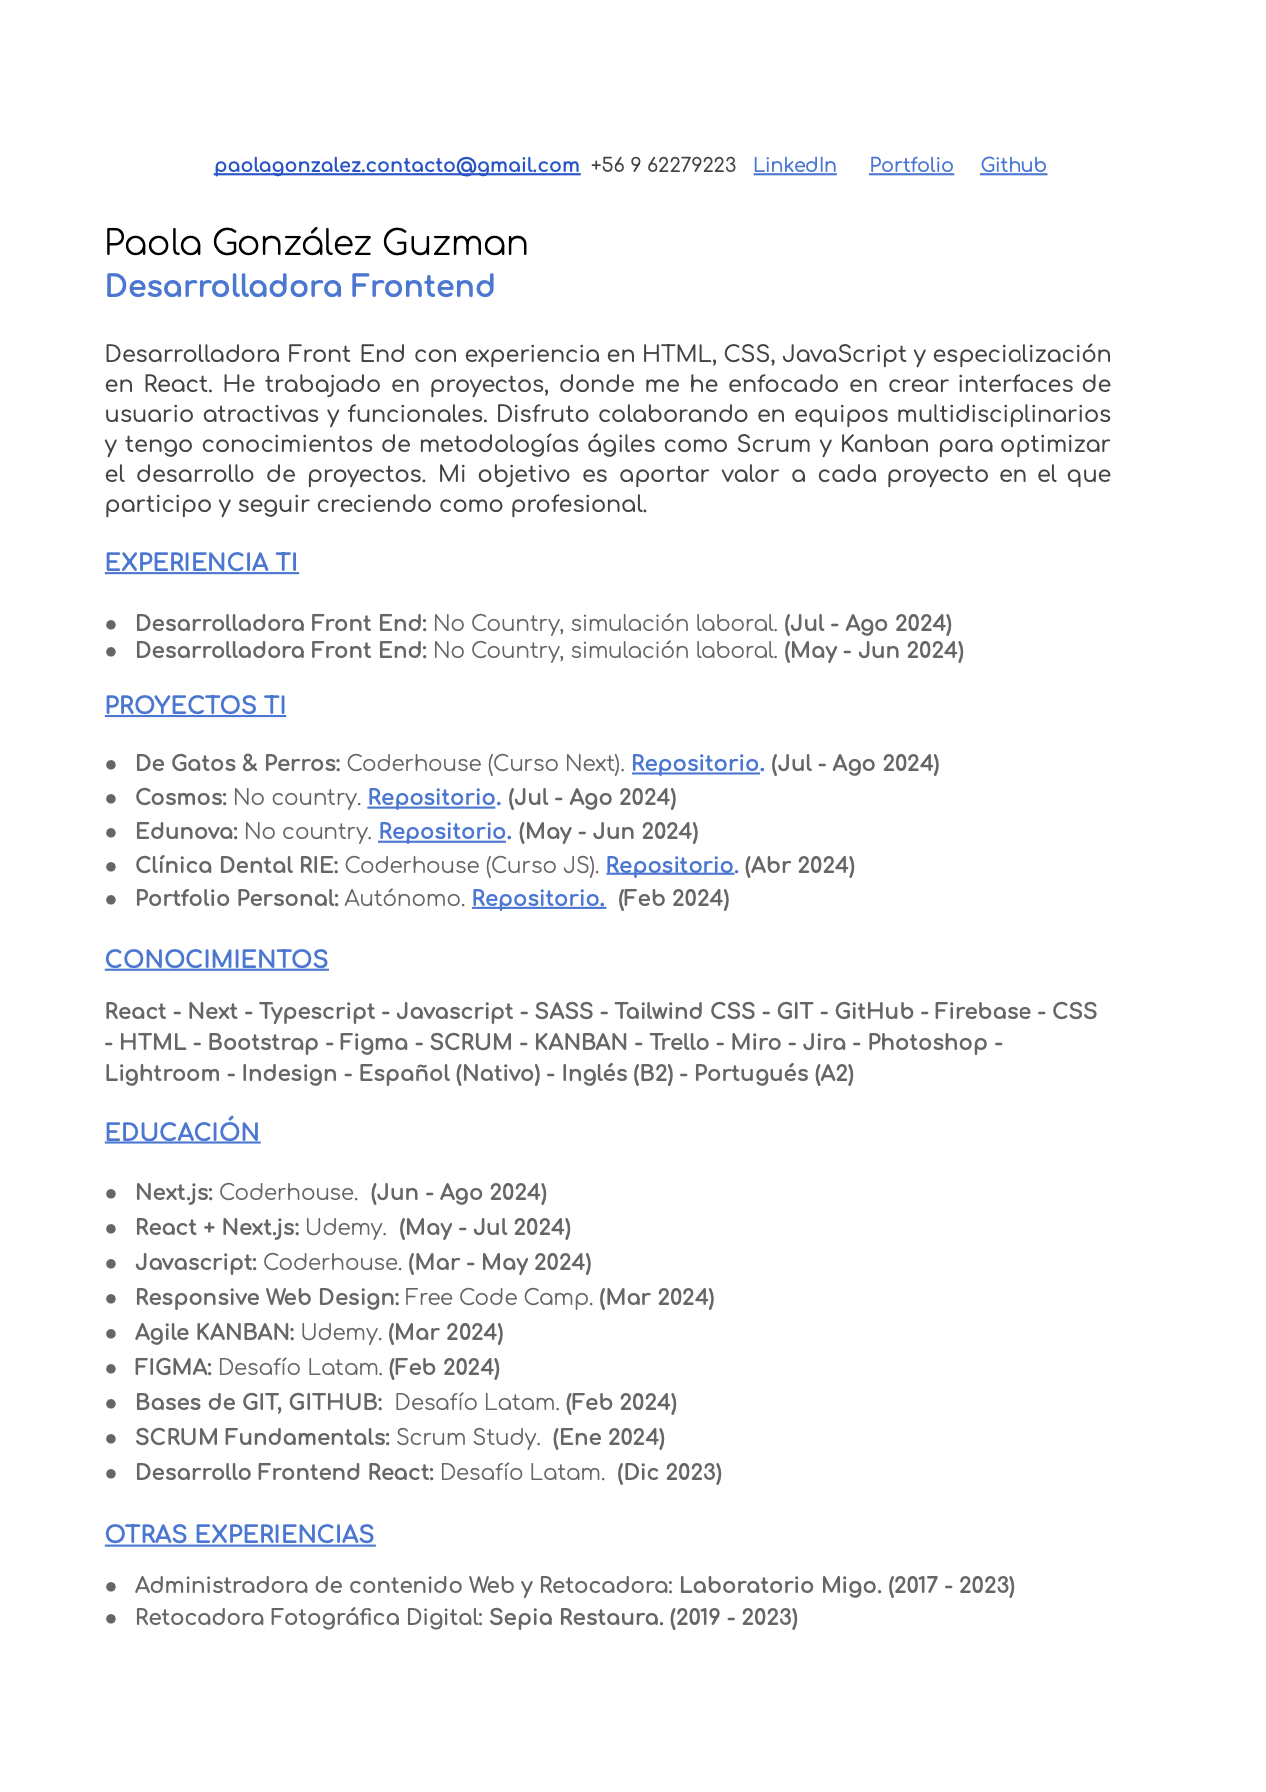
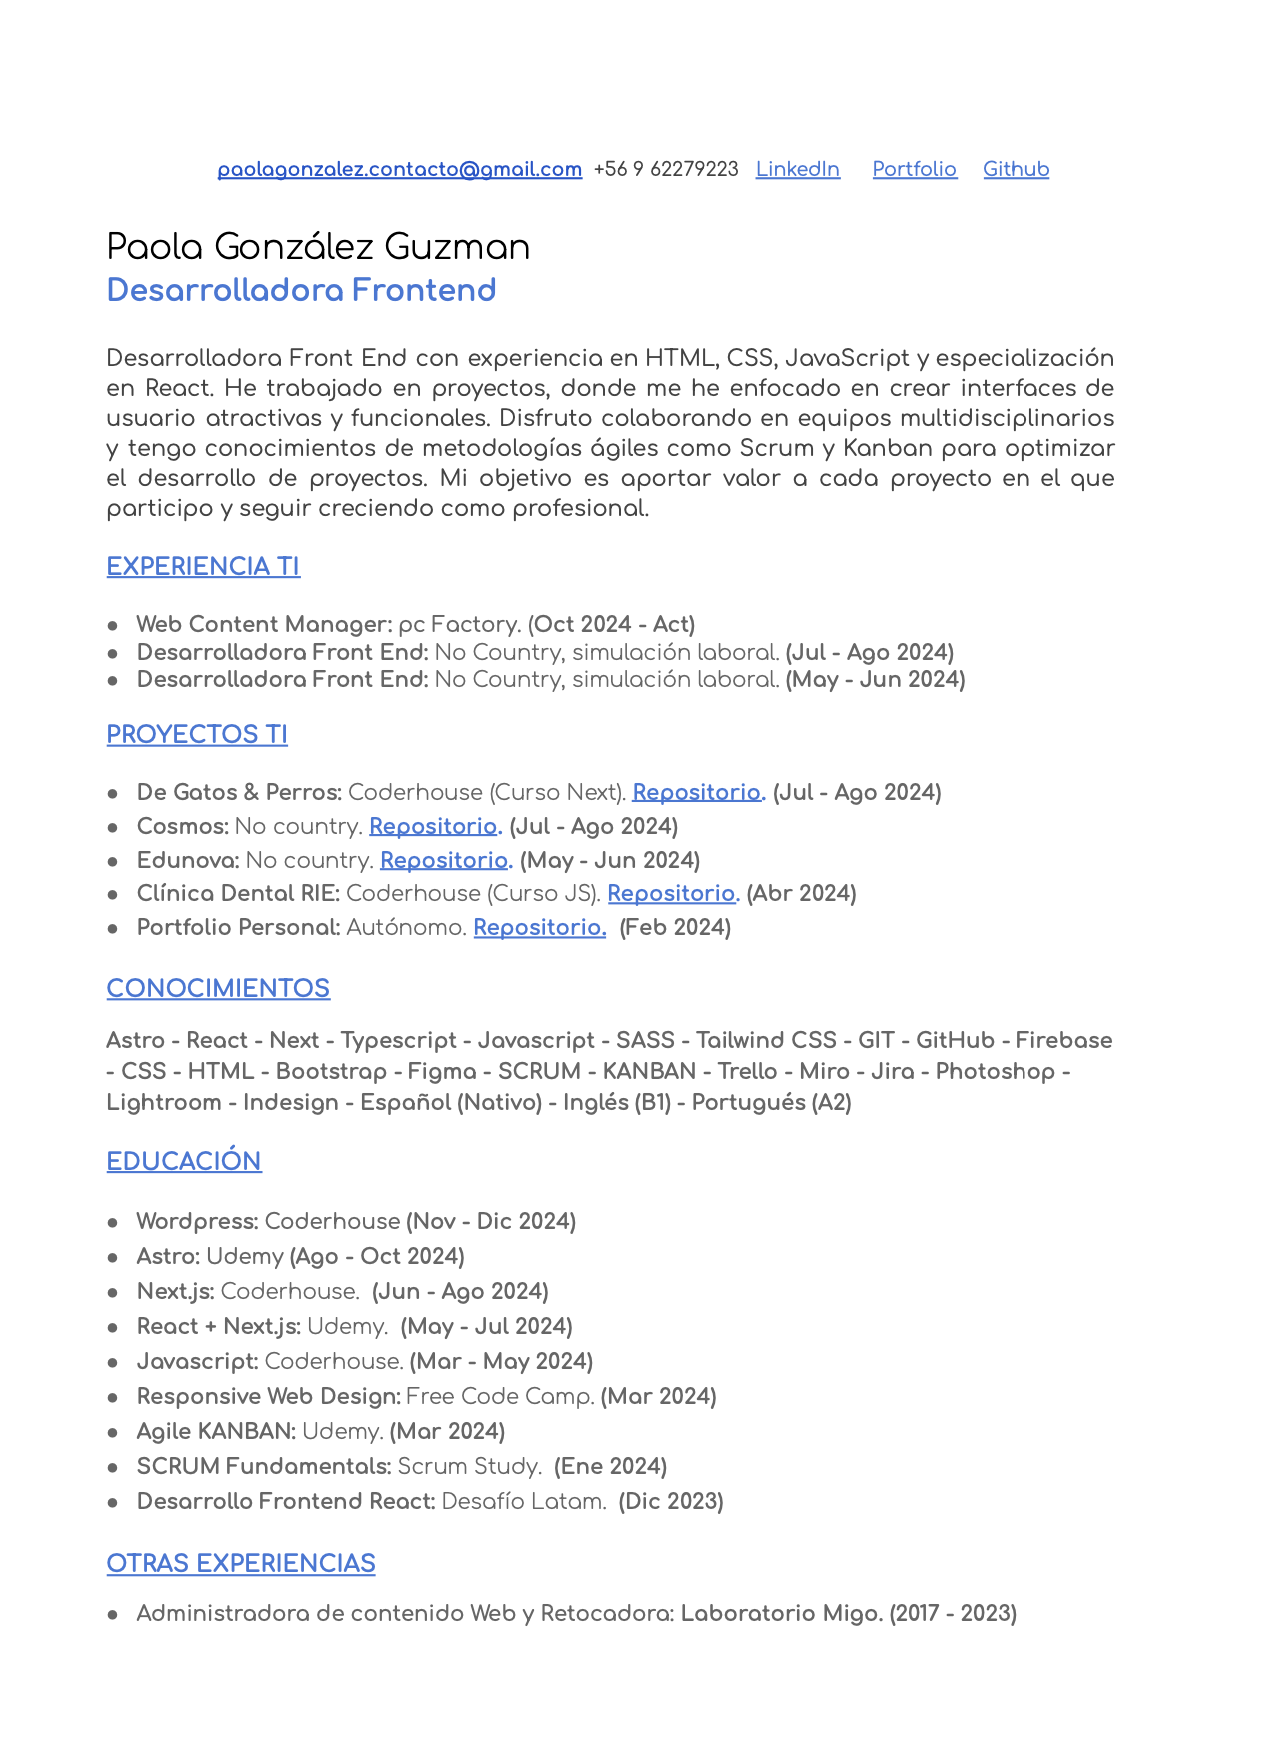
add new study and cert

Changed region(s): [[0.0617, 0.0927, 0.8948, 0.9268], [0.5245, 0.0927, 0.8331, 0.1236], [0.7714, 0.865, 0.8022, 0.9268]]

diff --git a/src/context/StudyContext.jsx b/src/context/StudyContext.jsx
@@ -1,4 +1,4 @@
-import { createContext } from "react";
+import { createContext } from 'react';
 export const StudyContext = createContext();
 
 const StudyProvider = ({ children }) => {
@@ -7,74 +7,81 @@ const StudyProvider = ({ children }) => {
 
     const studies = [
         {
+            id: 0,
+            name: 'Wordpress',
+            place: 'Coderhouse (Nov - Dic 2024)',
+            info: 'Instalación y configuración de WordPress utilizando un servidor apache local con el fin de tener dominio sobre el sitio web, además del uso de complementos y herramientas para diseñar un sitio completamente funcional y seguro. Creación de Tienda Online con pasarelas de pago y totalmente responsive.',
+            state: 'wordpress',
+        },
+        {
             id: 1,
-            name: "Astro",
-            place: "Udemy (Actualmente cursando)",
-            info: "Creación de sitios estáticos usando React JS.",
-            state: "astro",
+            name: 'Astro',
+            place: 'Udemy (Ago - Oct 2024)',
+            info: 'Creación de sitios estáticos usando React JS.',
+            state: 'astro',
         },
         {
             id: 2,
-            name: "Next JS",
-            place: "Coderhouse (Jul - Ago 2024)",
-            info: "Fundamentos del Server Side Rendering y creación de un proyecto de aplicación web autoadministrable con NextJS, interactuando con servicios de autenticación y bases de datos con óptimos resultados en optimización de SEO.",
-            state: "next",
+            name: 'Next JS',
+            place: 'Coderhouse (Jul - Ago 2024)',
+            info: 'Fundamentos del Server Side Rendering y creación de un proyecto de aplicación web autoadministrable con NextJS, interactuando con servicios de autenticación y bases de datos con óptimos resultados en optimización de SEO.',
+            state: 'next',
         },
         {
             id: 3,
-            name: "React + Next JS 14",
-            place: "Udemy (Jun - Jul 2024)",
-            info: "Uso de React y Next JS para crear SPA, SSG y SSR con Login, React Hooks, Context API & Firebase.",
-            state: "next/react",
+            name: 'React + Next JS 14',
+            place: 'Udemy (Jun - Jul 2024)',
+            info: 'Uso de React y Next JS para crear SPA, SSG y SSR con Login, React Hooks, Context API & Firebase.',
+            state: 'next/react',
         },
         {
             id: 4,
-            name: "JAVASCRIPT",
-            place: "Coderhouse (Ene - Abr 2024)",
-            info: "Contenidos del Curso: Sintaxis, Control de flujos, Iteraciones, Funciones, Objetos y Arrays, DOM y Eventos, Storage y JSON, Ajax y Fetch, Frameworks y Node JS.",
-            state: "javascript",
+            name: 'JAVASCRIPT',
+            place: 'Coderhouse (Ene - Abr 2024)',
+            info: 'Contenidos del Curso: Sintaxis, Control de flujos, Iteraciones, Funciones, Objetos y Arrays, DOM y Eventos, Storage y JSON, Ajax y Fetch, Frameworks y Node JS.',
+            state: 'javascript',
         },
         {
             id: 5,
-            name: "Responsive Web Design",
-            place: "FreeCodeCamp (Mar 2024)",
-            info: "Alrededor de 300 ejercicios que incluyen conceptos básicos de HTML y CSS. Variables de CSS y las mejores prácticas de accesibilidad mediante la creación de cuestionarios. Además de creaciones web de diferentes tamaños de pantalla creando una galería de fotos con Flexbox y un diseño de artículo de revista con CSS Grid.",
-            state: "responsive",
+            name: 'Responsive Web Design',
+            place: 'FreeCodeCamp (Mar 2024)',
+            info: 'Alrededor de 300 ejercicios que incluyen conceptos básicos de HTML y CSS. Variables de CSS y las mejores prácticas de accesibilidad mediante la creación de cuestionarios. Además de creaciones web de diferentes tamaños de pantalla creando una galería de fotos con Flexbox y un diseño de artículo de revista con CSS Grid.',
+            state: 'responsive',
         },
         {
             id: 6,
-            name: "Agile Kanban for Software Development Teams",
-            place: "Udemy (Mar 2024)",
-            info: "Principios de Kanban, Diferencias entre Kanban y Extreme Programming, Tablero de Kanban, Definición de Done, Stand-up diario, Reglas en Kanban.",
-            state: "kanban",
+            name: 'Agile Kanban for Software Development Teams',
+            place: 'Udemy (Mar 2024)',
+            info: 'Principios de Kanban, Diferencias entre Kanban y Extreme Programming, Tablero de Kanban, Definición de Done, Stand-up diario, Reglas en Kanban.',
+            state: 'kanban',
         },
         {
             id: 7,
-            name: "Figma",
-            place: "Desafío Latam (Feb 2024)",
-            info: "Taller online de la academia que tiene por objetivo dar a conocer las funcionalidades básicas que permite Figma para la creación de interfaces digitales. Contenidos: Prototipos de interfaces de usuario, Automatización de interfaces de usuario, UI, Diseño de la interfaz de usuario, Diseño de experiencia de usuario (UX).",
-            state: "figma",
+            name: 'Figma',
+            place: 'Desafío Latam (Feb 2024)',
+            info: 'Taller online de la academia que tiene por objetivo dar a conocer las funcionalidades básicas que permite Figma para la creación de interfaces digitales. Contenidos: Prototipos de interfaces de usuario, Automatización de interfaces de usuario, UI, Diseño de la interfaz de usuario, Diseño de experiencia de usuario (UX).',
+            state: 'figma',
         },
         {
             id: 8,
-            name: "Bases de GIT, GitHub",
-            place: "Desafío Latam (Feb 2024)",
-            info: "Terminal, Git, GitHub, GitHub Pages y Trabajo Colaborativo.",
-            state: "git",
+            name: 'Bases de GIT, GitHub',
+            place: 'Desafío Latam (Feb 2024)',
+            info: 'Terminal, Git, GitHub, GitHub Pages y Trabajo Colaborativo.',
+            state: 'git',
         },
         {
             id: 9,
-            name: "Scrum Fundamentals Certified",
-            place: "ScrumStudy( Ene 2024)",
-            info: "Curso online que incluye examen de aprobación de 40 preguntas basadas en los conceptos claves sobre el marco Scrum, vistos en la Guía SBOK®",
-            state: "scrum",
+            name: 'Scrum Fundamentals Certified',
+            place: 'ScrumStudy( Ene 2024)',
+            info: 'Curso online que incluye examen de aprobación de 40 preguntas basadas en los conceptos claves sobre el marco Scrum, vistos en la Guía SBOK®',
+            state: 'scrum',
         },
         {
             id: 10,
-            name: "DESARROLLO FRONT END REACT",
-            place: "Desafío Latam (Abr 2023 - Ene 2024)",
-            info: "Conocimientos adquiridos por el Bootcamp: React Hooks, Netifly, GitHub Pages, Tailwind CSS, JSON, HTML, CSS Flexbox, Git, Media Queries, VSCode, CSS, JavaScript, SCSS, Terminal, CSS Inline, Vite, React.js, CSS Grid, Context API, Bootstrap, GitHub y API REST",
-            state: "react",
+            name: 'DESARROLLO FRONT END REACT',
+            place: 'Desafío Latam (Abr 2023 - Ene 2024)',
+            info: 'Conocimientos adquiridos por el Bootcamp: React Hooks, Netifly, GitHub Pages, Tailwind CSS, JSON, HTML, CSS Flexbox, Git, Media Queries, VSCode, CSS, JavaScript, SCSS, Terminal, CSS Inline, Vite, React.js, CSS Grid, Context API, Bootstrap, GitHub y API REST',
+            state: 'react',
         },
     ];
 

diff --git a/src/context/StackContext.jsx b/src/context/StackContext.jsx
@@ -7,57 +7,72 @@ const StackProvider = ({ children }) => {
 
     const stacks = [
         {
+            id: 0,
+            images: "./img/stack/stack img/21.webp",
+            alt: "Modyo",
+        },
+        {
+            id: 0,
+            images: "./img/stack/stack img/20.webp",
+            alt: "Wordpress",
+        },
+        {
             id: 1,
+            images: "./img/stack/stack img/19.webp",
+            alt: "Astro",
+        },
+        {
+            id: 2,
             images: "./img/stack/stack img/1.webp",
             alt: "React js",
         },
         {
-            id: 2,
+            id: 3,
             images: "./img/stack/stack img/2.webp",
             alt: "Next js",
         },
         {
-            id: 3,
+            id: 4,
             images: "../img/stack/stack img/3.webp",
             alt: "TypeScript",
         },
         {
-            id: 4,
+            id: 5,
             images: "../img/stack/stack img/4.webp",
             alt: "JavaScript",
         },
         {
-            id: 5,
+            id: 6,
             images: "../img/stack/stack img/5.webp",
             alt: "Sass",
         },
         {
-            id: 6,
+            id: 7,
             images: "../img/stack/stack img/6.webp",
             alt: "Tailwind css",
         },
         {
-            id: 7,
+            id: 8,
             images: "../img/stack/stack img/7.webp",
             alt: "Git",
         },
         {
-            id: 8,
+            id: 9,
             images: "../img/stack/stack img/8.webp",
             alt: "GitHub",
         },
         {
-            id: 18,
+            id: 10,
             images: "../img/stack/stack img/18.webp",
             alt: "Firebase",
         },
         {
-            id: 9,
+            id: 11,
             images: "../img/stack/stack img/9.webp",
             alt: "Css",
         },
         {
-            id: 10,
+            id: 12,
             images: "../img/stack/stack img/10.webp",
             alt: "Html",
         },
@@ -67,33 +82,33 @@ const StackProvider = ({ children }) => {
         //     alt: "Storybook",
         // },
         {
-            id: 12,
+            id: 13,
             images: "../img/stack/stack img/12.webp",
             alt: "Bootstrap",
         },
 
         {
-            id: 13,
+            id: 14,
             images: "../img/stack/stack img/13.webp",
             alt: "Figma",
         },
         {
-            id: 14,
+            id: 15,
             images: "../img/stack/stack img/14.webp",
             alt: "Ps",
         },
         {
-            id: 15,
+            id: 16,
             images: "../img/stack/stack img/15.webp",
             alt: "Trello",
         },
         {
-            id: 16,
+            id: 17,
             images: "../img/stack/stack img/16.webp",
             alt: "Miro",
         },
         {
-            id: 17,
+            id: 18,
             images: "../img/stack/stack img/17.webp",
             alt: "Jira",
         },

diff --git a/src/components/Home.jsx b/src/components/Home.jsx
@@ -136,7 +136,7 @@ const Home = () => {
                     <a href='mailto:paolagonzalez.contacto@gmail.com' target='_blank' rel='noopener noreferrer'>
                         <GoogleIcon sx={{ fontSize: 30, color: '#ffbd59', filter: 'drop-shadow(0 0 15px #ffbd59)' }} />
                     </a>
-                    <a href='https://drive.google.com/file/d/1bmdiYG1uZxFLp0g-emt0WugAVMkQqBOW/view?usp=drive_link' target='_blank' rel='noopener noreferrer'>
+                    <a href='https://drive.google.com/file/d/1NrQ_uNFc3i6lhxxCXv8O4zOLeNtkuPoO/view?usp=drive_link' target='_blank' rel='noopener noreferrer'>
                         <DescriptionIcon sx={{ fontSize: 30, color: '#ffbd59', filter: 'drop-shadow(0 0 15px #ffbd59)' }} />
                     </a>
                 </div>
@@ -180,7 +180,7 @@ const Home = () => {
                                     <GoogleIcon sx={{ fontSize: 40, color: '#ffbd59' }} className='animated-icon' />
                                 </a>
                                 <a
-                                    href='https://drive.google.com/file/d/1bmdiYG1uZxFLp0g-emt0WugAVMkQqBOW/view?usp=drive_link'
+                                    href='https://drive.google.com/file/d/1NrQ_uNFc3i6lhxxCXv8O4zOLeNtkuPoO/view?usp=drive_link'
                                     target='_blank'
                                     rel='noopener noreferrer'
                                 >

diff --git a/src/context/CertContext.jsx b/src/context/CertContext.jsx
@@ -5,7 +5,13 @@ const CertProvider = ({ children }) => {
     //Array de certificaciones actualizado
     //Se pueden agregar o quitar certificaciones de la lista para que se muestren en la sección de certificaciones
     const certs = [
-          {
+        {
+            id: 0,
+            image: "./img/certificaciones/certificacion-12.webp",
+            alt: "Udemy",
+            url: "https://www.udemy.com/certificate/UC-3d9be773-7fc2-4bf2-af62-a0a37be6fd77",
+        },
+        {
             id: 0,
             image: "./img/certificaciones/certificacion-11.webp",
             alt: "Coderhouse",

diff --git a/src/styles/Home.css b/src/styles/Home.css
@@ -18,6 +18,7 @@
     @media (280px <= width <= 768px) {
         flex-direction: column;
         margin-top: 1rem;
+        margin: 1rem 3rem 1rem 3rem;
     }
 }
 .names-perfil {
@@ -509,9 +510,9 @@
     margin-top: 1rem;
     padding: 1rem;
     background-color: rgba(157, 157, 157, 0.1);
-    border-radius: 30px;
-    box-shadow: 0px 0px 4px #ffbd59;
-    border: 1px solid #ffbd59;
+    border-radius: 15px;
+    box-shadow: 0px 0px 2px #ffbd59; 
+    /* border: 1px solid #ffbd59; */
 }
 .info-2 {
     display: flex;

diff --git a/src/views/Cv.jsx b/src/views/Cv.jsx
@@ -12,7 +12,7 @@ const Cv = () => {
     // };
     // Función para descargar el currículum para ATS
     const handleDownloadClickPdf = () => {
-        window.open("https://drive.google.com/file/d/1bmdiYG1uZxFLp0g-emt0WugAVMkQqBOW/view?usp=drive_link", "_blank");
+        window.open("https://drive.google.com/file/d/1NrQ_uNFc3i6lhxxCXv8O4zOLeNtkuPoO/view?usp=drive_link", "_blank");
     };
     // useEffect para que el scroll se posicione en la parte superior de la página
     useEffect(() => {

diff --git a/src/styles/CaruselCert.css b/src/styles/CaruselCert.css
@@ -1,6 +1,6 @@
 .box-content-img {
     width: 90%;
     margin: 0.5rem;
-    border-radius: 30px;
+    border-radius: 15px;
     cursor: pointer;
 }
